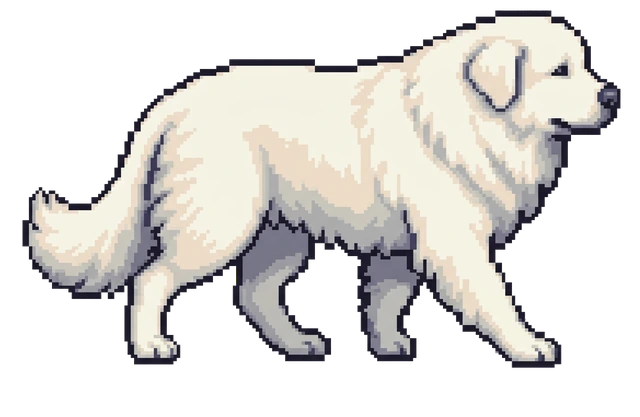
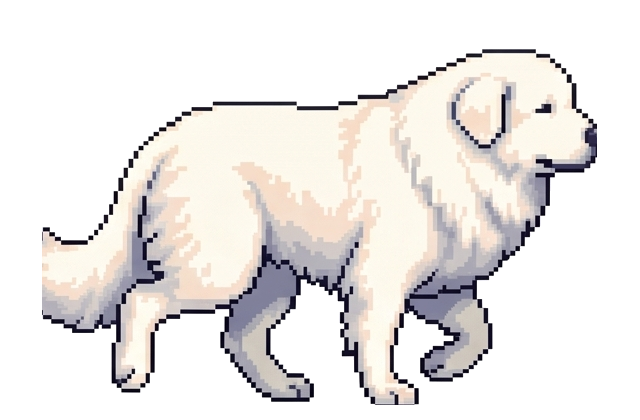
fix(dog): extract 8 walk frames with full 4-leg movement and transparent background

diff --git a/index.html b/index.html
@@ -8,7 +8,7 @@
   <link rel="preconnect" href="https://fonts.googleapis.com">
   <link rel="preconnect" href="https://fonts.gstatic.com" crossorigin>
   <link href="https://fonts.googleapis.com/css2?family=Be+Vietnam+Pro:wght@300;400;500&family=Cormorant+Garamond:ital,wght@0,300;0,400;0,500;1,300;1,400&family=Press+Start+2P&family=Lora:ital,wght@0,400;0,600;1,400&family=Playfair+Display:ital,wght@0,400;0,700;1,400&family=Dancing+Script:wght@400;700&family=Patrick+Hand&display=swap" rel="stylesheet">
-  <link rel="stylesheet" href="css/style.css?v=20261018h">
+  <link rel="stylesheet" href="css/style.css?v=20261018i">
 </head>
 <body>
 <main id="app">
@@ -91,7 +91,7 @@
 
     <!-- Chú chó Great Pyrenees đi dạo dưới đáy màn hình -->
     <div class="walk-dog" id="walkDog" aria-hidden="true">
-      <img id="walkDogImg" src="assets/img/dog_walk1.webp" alt="">
+      <img id="walkDogImg" src="assets/img/dog_walk1.webp?v=20261018i" alt="">
     </div>
 
     <div class="tooltip" id="tooltip" role="tooltip"></div>
@@ -249,15 +249,15 @@
 
 </main>
 
-<script src="js/render.js?v=20261018h"></script>
-<script src="js/audio.js?v=20261018h"></script>
-<script src="js/zodiac.js?v=20261018h"></script>
-<script src="js/memory.js?v=20261018h"></script>
-<script src="js/timeline.js?v=20261018h"></script>
-<script src="js/shooting.js?v=20261018h"></script>
-<script src="js/galaxy.js?v=20261018h"></script>
-<script src="js/intro.js?v=20261018h"></script>
-<script src="js/main.js?v=20261018h"></script>
-<script src="js/dog.js?v=20261018h"></script>
+<script src="js/render.js?v=20261018i"></script>
+<script src="js/audio.js?v=20261018i"></script>
+<script src="js/zodiac.js?v=20261018i"></script>
+<script src="js/memory.js?v=20261018i"></script>
+<script src="js/timeline.js?v=20261018i"></script>
+<script src="js/shooting.js?v=20261018i"></script>
+<script src="js/galaxy.js?v=20261018i"></script>
+<script src="js/intro.js?v=20261018i"></script>
+<script src="js/main.js?v=20261018i"></script>
+<script src="js/dog.js?v=20261018i"></script>
 </body>
 </html>

diff --git a/js/dog.js b/js/dog.js
@@ -1,7 +1,7 @@
 /* Chú chó Great Pyrenees đi dạo dọc đáy màn hình thiên hà khi bấm vào hình ở góc trái */
 const WalkDog = (() => {
   const $ = id => document.getElementById(id);
-  const FRAMES = [1, 2, 3, 4, 5, 6, 7, 8].map(i => `assets/img/dog_walk${i}.webp`);
+  const FRAMES = [1, 2, 3, 4, 5, 6, 7, 8].map(i => `assets/img/dog_walk${i}.webp?v=20261018i`);
   const FRAME_MS = 105, SPEED = 80;          // px / giây
   let dog, img, galaxy, mascot;
   let on = false, x = 0, dir = 1, target = 0, pauseUntil = 0;
